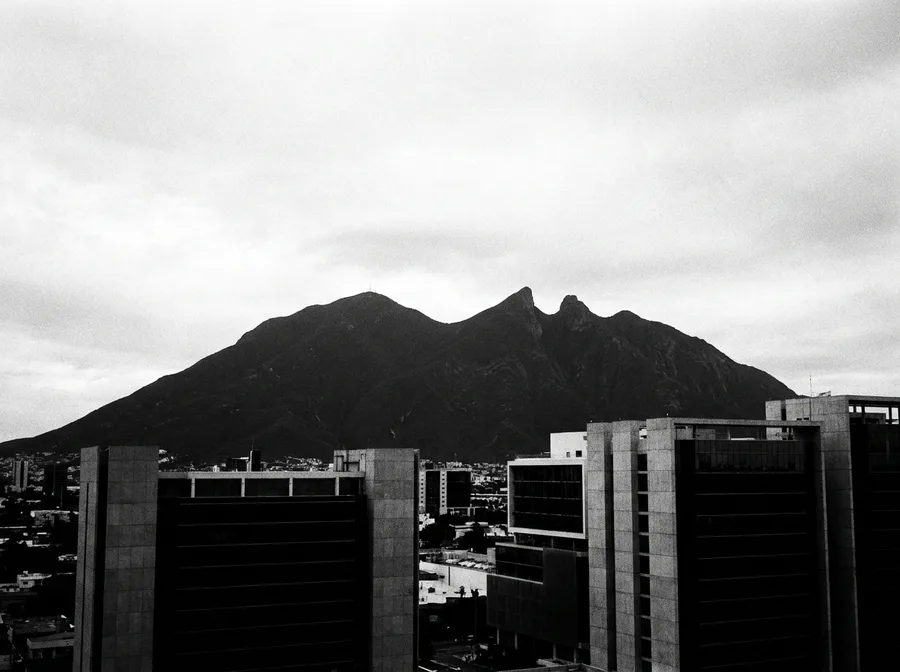
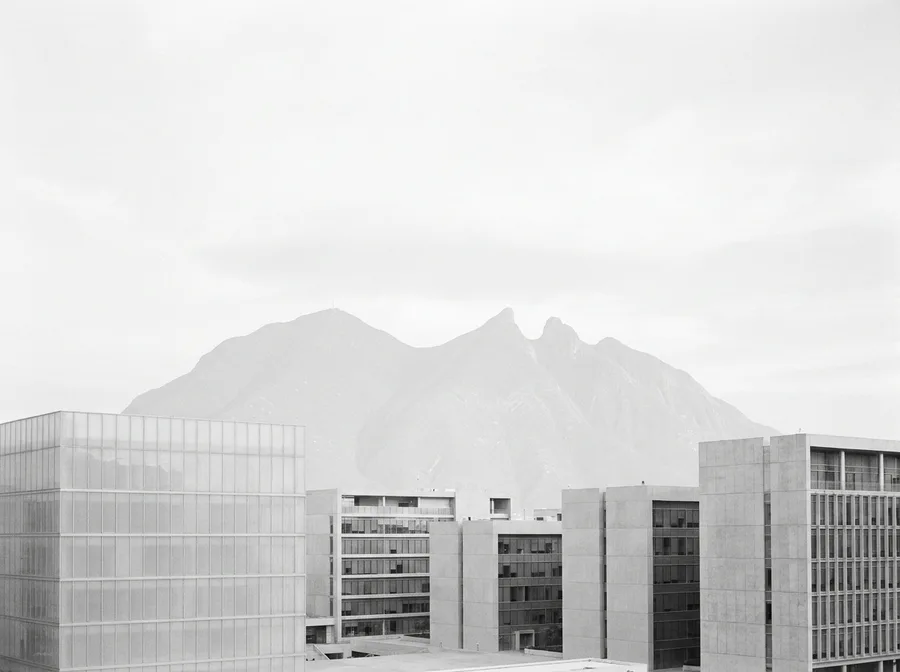
feat(destinos): fórmula v2 high-key — las fotos claras que sí se leen
Roberto, viendo la catedral de Guatemala en prod: "se ve muy oscuro y no
se entiende bien". La causa no era el B&N sino UNA frase de la fórmula:
"deep true blacks" castigaba a todo sujeto de piedra oscura (Kioto se
salvó porque el torii es claro). Elegido sobre 6 acabados generados con
el mismo sujeto y vistos al tamaño real de la card — ganó el high-key,
que arregla la queja sin romper la regla de fondo (el color es de tu
ropa, no del paisaje).

- La fórmula cambia en sus DOS copias (script + lib/destino-gen); el
  test que las mantiene idénticas siguió en verde.
- Regeneradas las 19 estáticas del catálogo y las 3 de la cola larga en
  Storage (kioto, ciudad-de-guatemala y sudafrica — esta última creada
  por un usuario real en las primeras 24h de la feature).
- Dos escenas necesitaron corrección propia contra el high-key: londres
  pedía "in full silhouette" (v1) y salía un puente negro en un cuadro
  claro; cdmx volvió a su defecto documentado (el Ángel como aguja en
  70% de cielo) — ahora la columna llena el cuadro.

diff --git a/lib/destino-gen.ts b/lib/destino-gen.ts
@@ -18,7 +18,7 @@ export const FORMULA_MONO =
 export const FORMULA_LUZ =
   "Cool neutral daylight from an open overcast sky or high open shade. NO golden hour, NO sunrise, NO sunset, NO warm light, NO lens flare.";
 export const FORMULA_GRANO =
-  "High contrast with deep true blacks and clean bright whites, fine 35mm film grain, crisp and sharp, editorial magazine quality.";
+  "HIGH-KEY and airy: bright pale sky, luminous soft surfaces, gentle silver-gray midtones, NO heavy shadows, NO deep crushed blacks — the whole image reads light and open, like a slightly overexposed editorial film photo. Fine 35mm film grain, crisp and sharp, editorial magazine quality.";
 export const FORMULA_COMPOSICION =
   "Calm minimal composition: the main subject is LARGE and dominant, filling most of the frame, with clean negative space around it — never a tiny distant subject lost in an empty sky. Strong graphic shapes reading as bold silhouettes. Quiet, architectural, unhurried.";
 export const FORMULA_LIMPIO =

diff --git a/CHANGELOG.md b/CHANGELOG.md
@@ -2,6 +2,16 @@
 
 Cambios notables de stailist. Formato basado en [Keep a Changelog](https://keepachangelog.com/es/); versiones `MAJOR.MINOR.PATCH.MICRO`.
 
+## [0.2.230.1] - 2026-08-13
+
+### Changed — las fotos de destino, ahora claras
+
+Las fotos de viaje seguían en blanco y negro, pero la receta pedía "negros
+profundos" y los edificios de piedra oscura salían como una mancha (la catedral
+de Guatemala fue la prueba). La receta nueva es luminosa y aireada — elegida
+comparando seis acabados del mismo edificio al tamaño real de la card. Se
+regeneraron las 19 fotos del catálogo y las 3 ya generadas por viajes reales.
+
 ## [0.2.230.0] - 2026-08-13
 
 ### Changed — el viaje ahora sí fluye como el handoff: plan → maleta → looks
